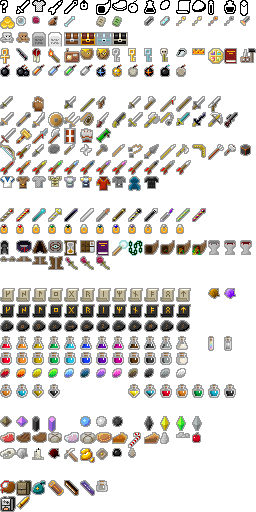
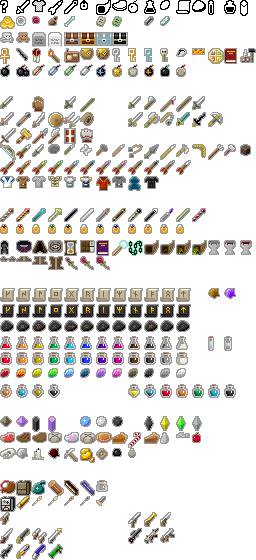
로켓 발사기 구현 취소, 아이템 스프라이트 추가, 총기 스펙 정형화

diff --git a/mod-docs/녹픽던 모딩 기획서.md b/mod-docs/녹픽던 모딩 기획서.md
@@ -23,62 +23,145 @@
 
 * #### 조잡한 권총
 
-      - 근접 피해 1 - 2, 강화 당 +1 - 1
-      - 근접 공격에 3칸 밀쳐내기, 낭떠러지로 떨어뜨리기 불가능
-      - 탄환 피해 4 - 6, 강화 당 +1 - 2
-      - 장탄수 1발
-      - 장전 시간 1턴
+      - 근접 피해 , 강화 당 +
+      - 탄환 피해 , 강화 당 +
+
+      - 장탄수 발
+      - 장전 시간 턴
 
 >### 2티어
 
 * #### 자동권총
 
-      - 근접 피해 1 - 4, 강화 당 +1 - 1
-      - 근접 공격에 3칸 밀쳐내기, 낭떠러지로 떨어뜨리기 불가능
-      - 탄환 피해 3 - 6, 강화 당 +1 - 2
-      - 발사 속도 0.5(2배)
+      - 근접 피해 , 강화 당 +
+      - 탄환 피해 , 강화 당 +
+
+      - 발사 속도
+
+      - 장탄수 발
+      - 장전 시간 턴
+
+* #### 나팔총
+
+      - 근접 피해 , 강화 당 +
+      - 탄환 피해 , 강화 당 +
+
+      - 적이 칸 떨어져 있을 경우 탄환 피해량 배
+
+      - 장탄수 발
+      - 장전 시간 턴
+
+* #### 리볼버
+
+      - 근접 피해 , 강화 당 +
+      - 탄환 피해 , 강화 당 +
       - 장탄수 6발
-      - 장전 시간 1턴
+      - 장전 시간 턴
+
+
 
 >### 3티어
 
 * #### 사냥용 소총
 
-      - 근접 피해 1 - 6, 강화 당 +1 - 1
-      - 근접 공격에 3칸 밀쳐내기, 낭떠러지로 떨어뜨리기 불가능
-      - 탄환 피해 8 - 12, 강화 당 +1 - 4
+      - 근접 피해 , 강화 당 +
+      - 탄환 피해 , 강화 당 +
+
       - 0 - (적과의 거리)만큼 데미지 추가
-      - 장탄수 3발
-      - 장전 시간 1턴
+
+      - 장탄수 발
+      - 장전 시간 턴
 
 
 * #### 산탄총
        
-         
-      - 근접 피해 4 - 12, 강화 당 +1 - 3
-        (계산식 : (티어 + 1) - (3 * (티어 + 1) + 강화수치 * 티어))
-      - 탄환 피해 3 - 6, 강화 당 +1 - 3
+      - 근접 피해 , 강화 당 +
+      - 탄환 피해 , 강화 당 +
+
       - 적이 1 - 4칸 떨어져 있을 경우 탄환 피해량 3 - 0배
-        (계산식 : 4 - 거리, 최소 0)
-      - 적이 1 - 4칸 떨어져 있을 경우 탄환 정확성 1.5 - 0배
-        (계산식 : 2 - 0.5 * 거리, 최소 0 )  
-      - 장탄수 2발
-      - 장전 시간 2턴
+
+      - 장탄수 발
+      - 장전 시간 턴
+
+* #### 쌍권총
+
+      - 근접 피해 , 강화 당 +
+      - 탄환 피해 , 강화 당 +
+
+      - 발사 속도
+
+      - 장탄수 발
+      - 장전 시간 턴
+
+* #### 작살총
+
+
 
 >### 4티어
 
 * #### 저격 소총(AWP)
 
-      - 근접 피해 1 - 8, 강화 당 +1 - 1
-      - 근접 공격에 3칸 밀쳐내기, 낭떠러지로 떨어뜨리기 불가능
-      - 탄환 피해 10 - 15, 강화 당 +1 - 5
+      - 근접 피해 , 강화 당 +
+      - 탄환 피해 , 강화 당 +
+
       - 0 - (적과의 거리)만큼 데미지 추가
-      - 장탄수 3발
-      - 장전 시간 1턴
+      
+      - 장탄수 발
+      - 장전 시간 턴
+
+* #### 돌격 소총(SCAR)
+
+      - 근접 피해 , 강화 당 +
+      - 탄환 피해 , 강화 당 +
+
+      - 1번 발사에 3발 발사
+      
+      - 장탄수 발
+      - 장전 시간 턴
+
+* #### 기관단총
+
+      - 근접 피해 , 강화 당 +
+      - 탄환 피해 , 강화 당 +
+
+      - 발사 속도
+      
+      - 장탄수 발
+      - 장전 시간 턴
 
 >### 5티어
 
-* #### 로켓 발사기(AT-4)
+* #### 기관총
+
+      - 근접 피해 , 강화 당 +
+      - 탄환 피해 , 강화 당 +
+
+      - 
+      
+      - 장탄수 발
+      - 장전 시간 턴
+
+* #### 화염방사기
+
+      - 근접 피해 , 강화 당 +
+      - 탄환 피해 , 강화 당 +
+
+      - 
+      
+      - 장탄수 발
+      - 장전 시간 턴
+
+* #### 플라즈마 포
+
+      - 근접 피해 , 강화 당 +
+      - 탄환 피해 , 강화 당 +
+
+      - 
+      
+      - 장탄수 발
+      - 장전 시간 턴
+
+* #### 로켓 발사기(AT-4)(구현 X)
 
       - 근접 피해 1 - 10, 강화 당 +1 - 1
       - 근접 공격에 3칸 밀쳐내기, 낭떠러지로 떨어뜨리기 불가능

diff --git a/mod-docs/새로운 아이템.md b/mod-docs/새로운 아이템.md
@@ -62,7 +62,7 @@
      - 총기 개조 가방으로 제작 가능
      - 상점 판매 가격 : 액체 금속 / 5, 최소 1
 
-> ## 로켓 발사기
+> ## 로켓 발사기(구현 X)
      - 발사체 스프라이트를 로켓으로 변경
      - 피해 표기 방식
        이 무기로 발사하는 로켓은 _%1$d_-_%2$d_ 피해를 주며 에서
